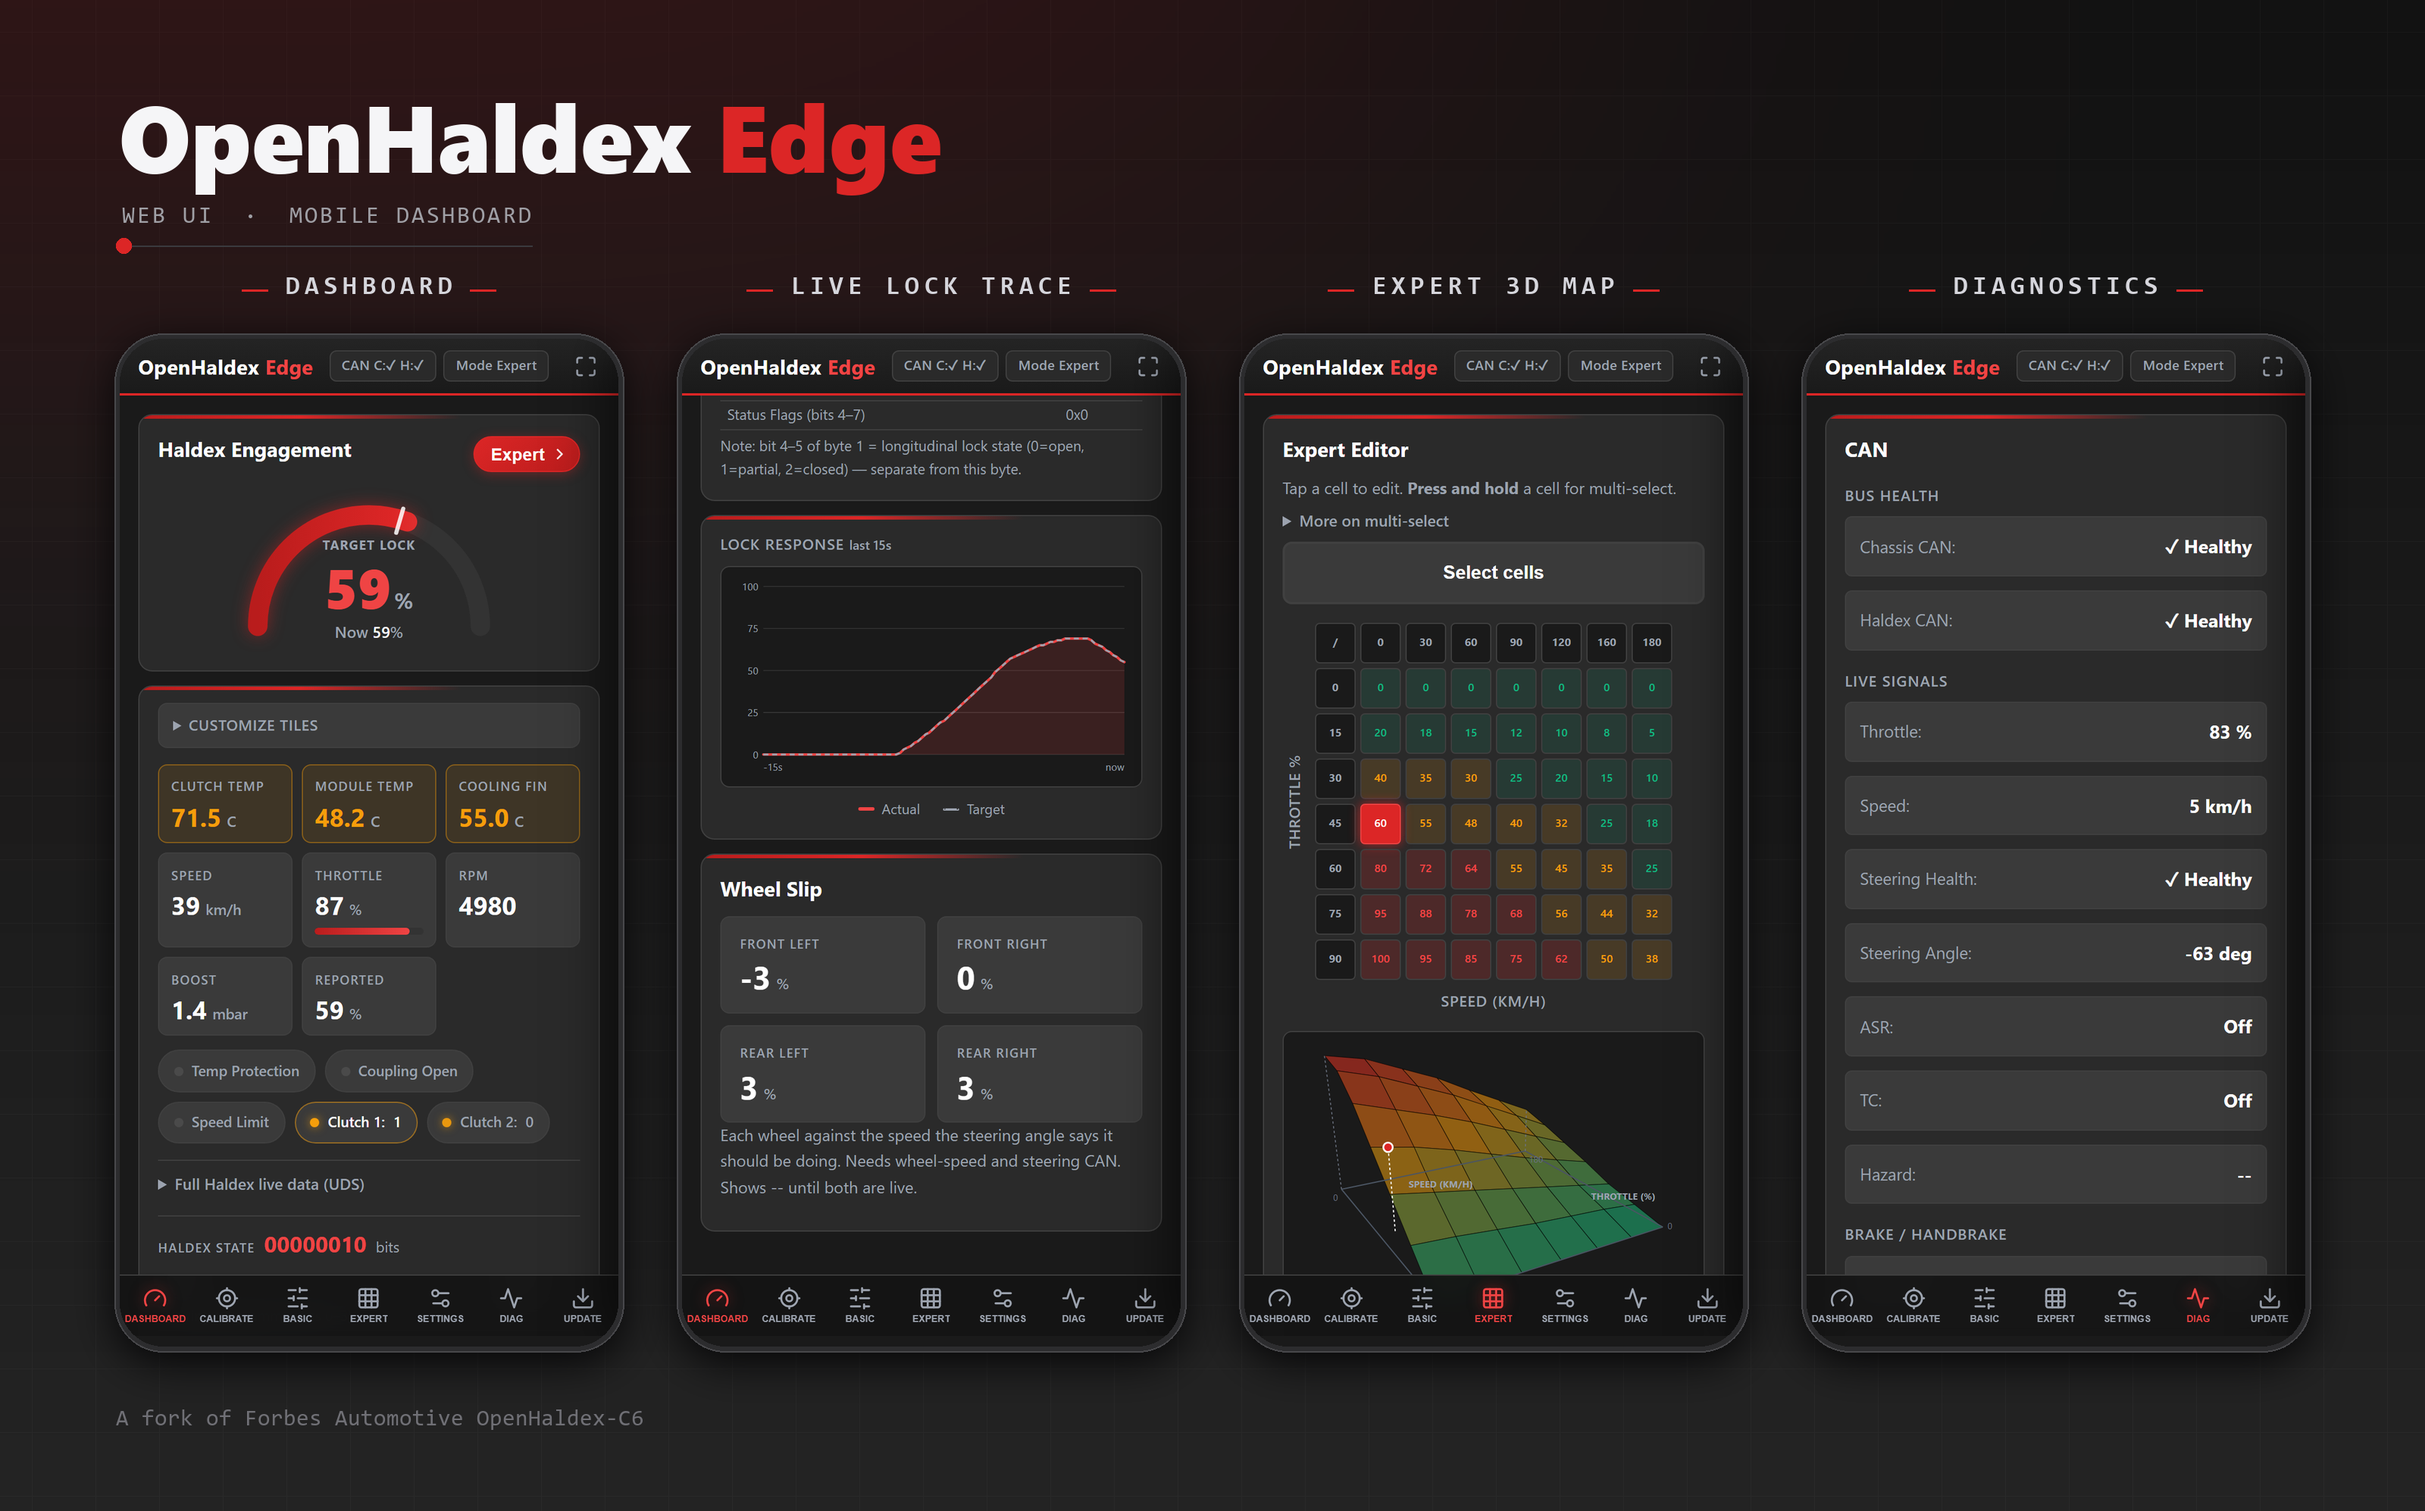
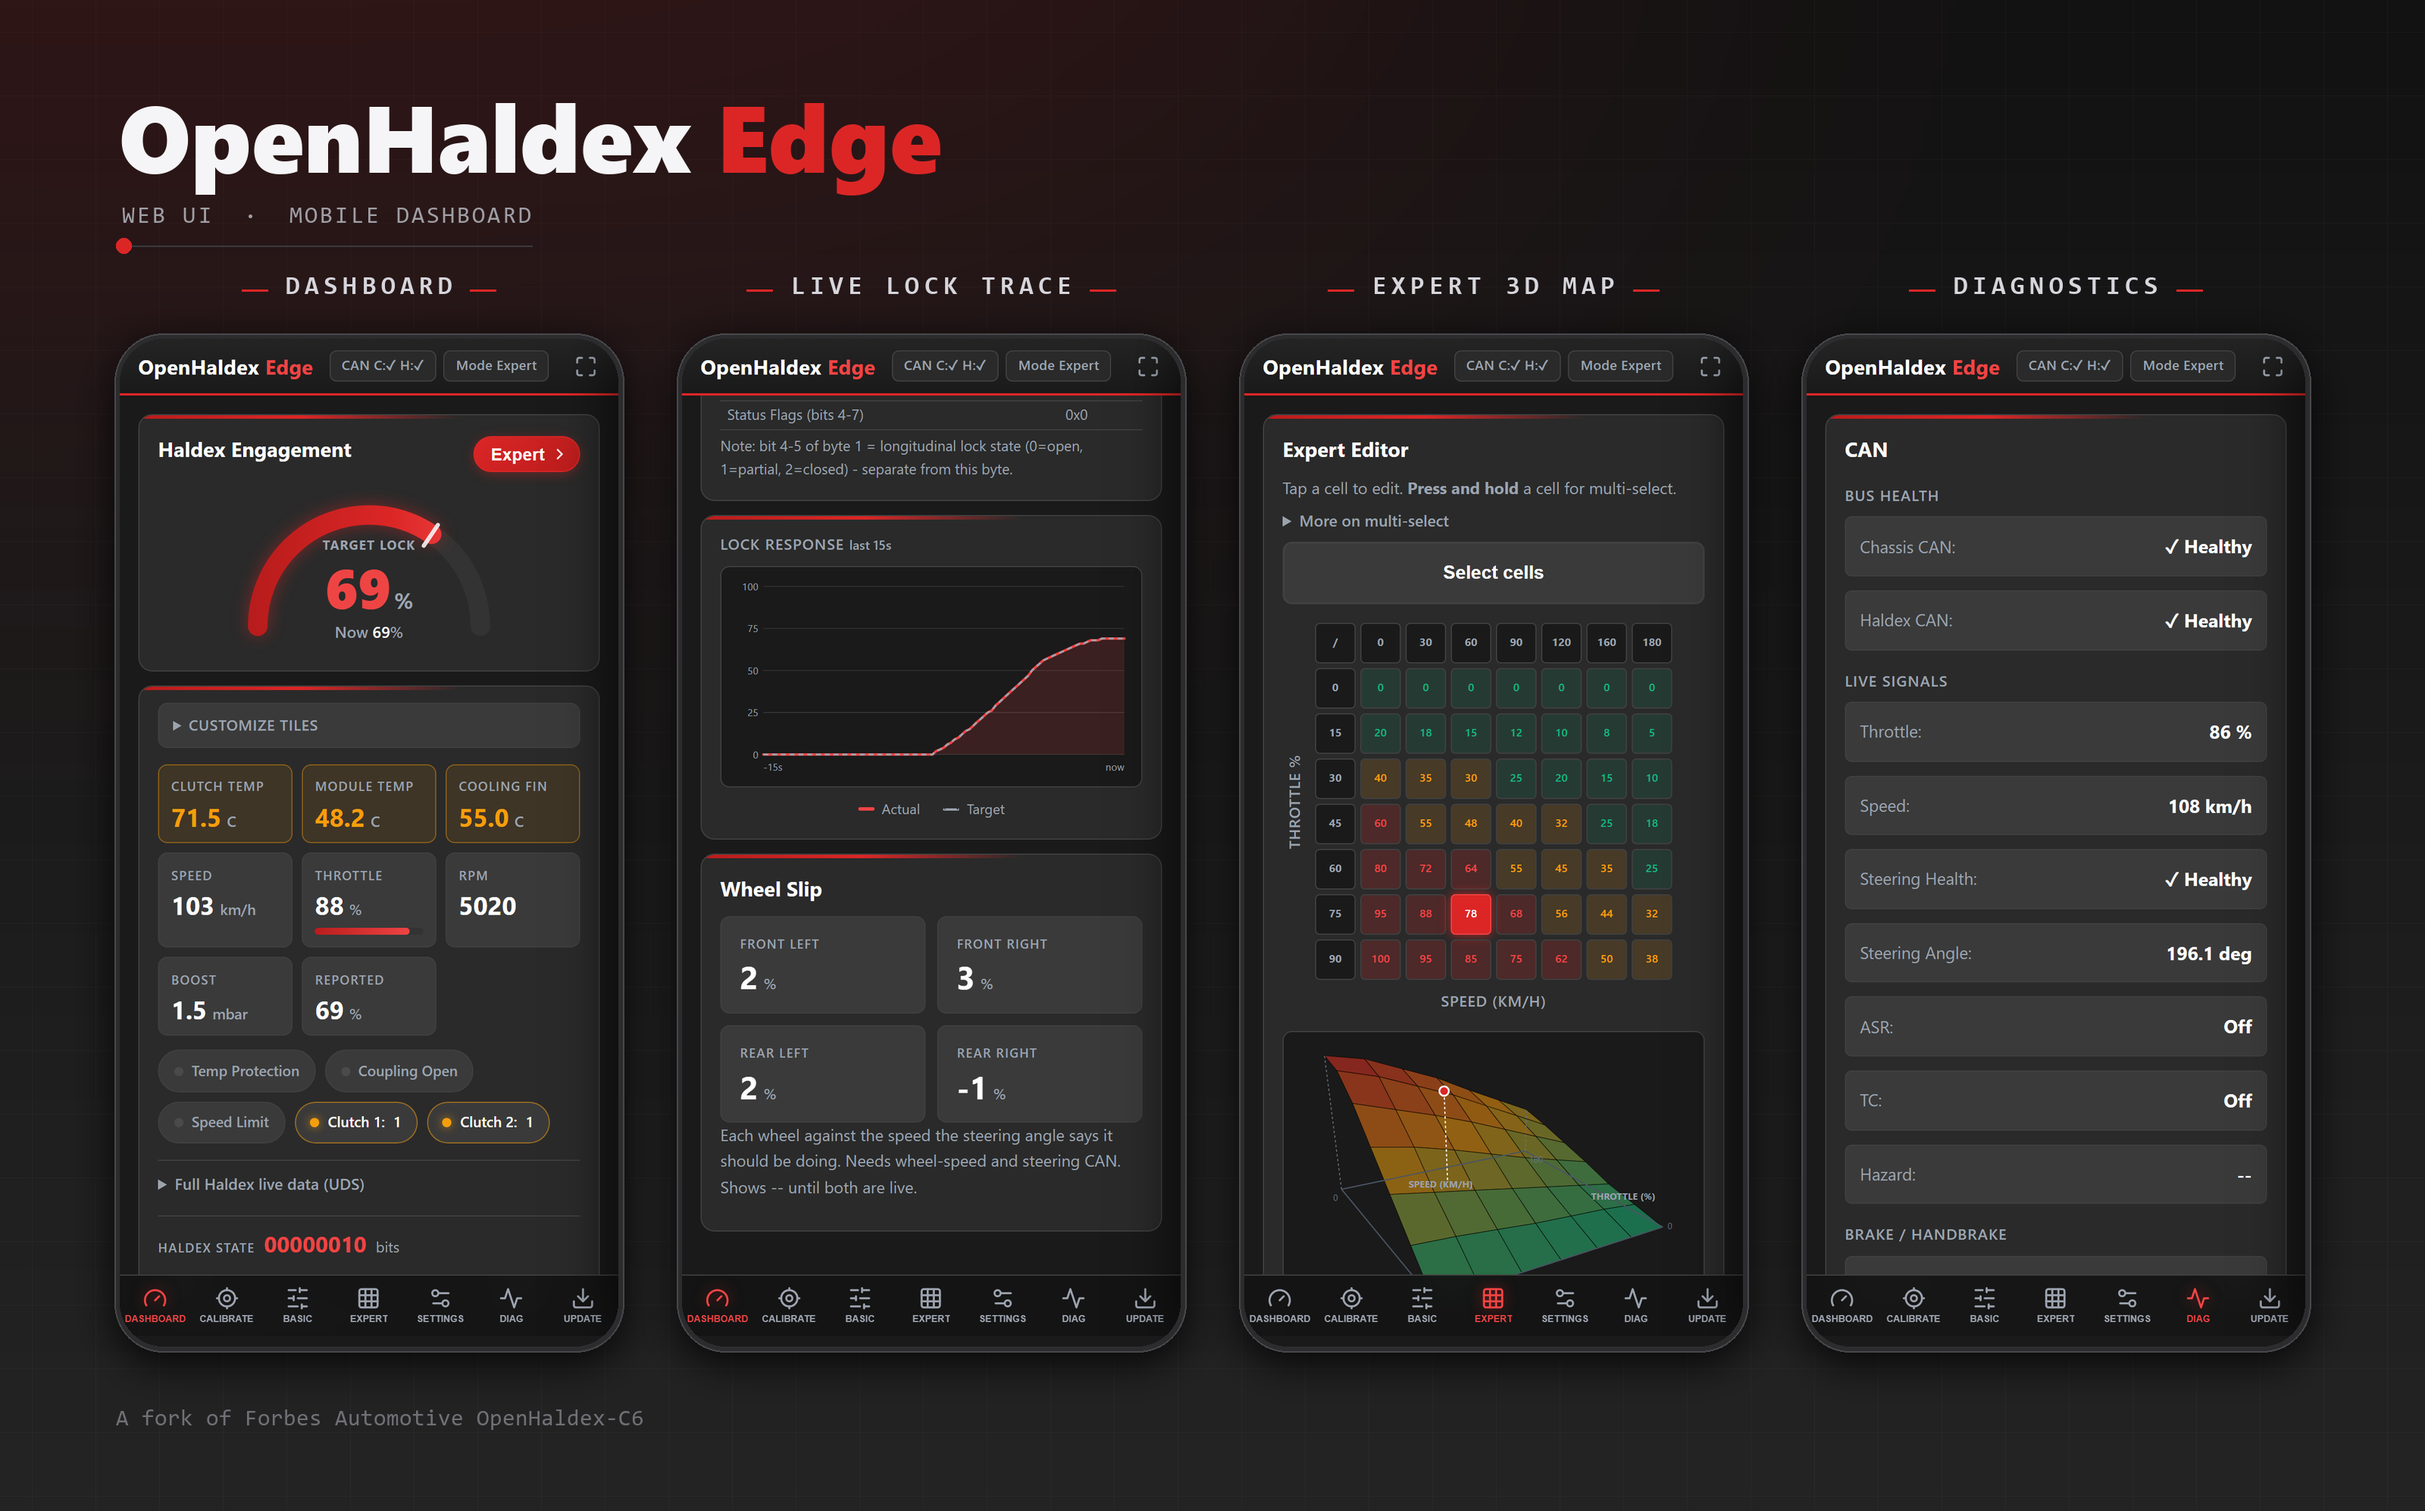
Docs: settings-keeping USB flash, CF formula note, fresh graphics
- README: a merged-image USB flash blanks the settings area, so show
  the esptool command that flashes the four parts separately and
  clears otadata. v8 and v9 both keep NVS at 0x9000, so an Edge v8
  unit keeps its settings that way.
- README and CHANGELOG: the default correction factor stays Edge's
  (lock + 20) / 2, matching the fit in the source comment.
- Regenerate the hero, N-up and expert graphics from the final UI (Car
  geometry card, ASCII status text).
- publish_ota_feed.py: a beta tag (v9.01.0-beta1) reads its release
  notes from the v9.01.0 changelog heading.

diff --git a/scripts/publish_ota_feed.py b/scripts/publish_ota_feed.py
@@ -131,7 +131,7 @@ def main() -> None:
         "channel": channel,
         "date": datetime.date.today().isoformat(),
         "ota": True,
-        "notes": release_notes(args.changelog, version),
+        "notes": release_notes(args.changelog, version.split("-")[0]),
         "firmware": {"path": f"V{version}/firmware.bin", "size": firmware.stat().st_size, "sha256": sha256(firmware)},
         "filesystem": {"path": f"V{version}/littlefs.bin", "size": littlefs.stat().st_size, "sha256": sha256(littlefs)},
     }

diff --git a/README.md b/README.md
@@ -96,12 +96,12 @@ Everything below runs on the Forbes hardware.
 
 Things worth knowing when you move from Edge v8:
 
-- **Settings keys are unchanged.** The module still stores everything in the one `openhaldex` settings area, so a flash that leaves that area alone keeps your settings. The merged image is one file covering flash from 0x0 to the end of the web UI partition, and the settings area inside that range is filled with blank flash, so treat a merged-image USB flash as a factory reset and plan to set the unit up again. Edge v8 has no Backup & Restore, so write down your Expert table first or screenshot it. v9 units can export a backup (see [Backup & Restore](#backup--restore)).
+- **Settings keys are unchanged.** The module still stores everything in the one `openhaldex` settings area, so a flash that leaves that area alone keeps your settings. The merged image is one file covering flash from 0x0 to the end of the web UI partition, and the settings area inside that range is filled with blank flash, so a merged-image USB flash is a factory reset. To keep your settings, flash the separate parts instead, as shown under [First flash over USB](#first-flash-over-usb). Edge v8 has no Backup & Restore, so write down your Expert table or screenshot it either way. v9 units can export a backup (see [Backup & Restore](#backup--restore)).
 - **The speed window now gates every lock path.** Disengage under speed, disengage above speed and minimum throttle apply to force modes (TC, hazards, external button) and to Expert mode, not only to the fixed-ratio modes. On Edge v8 those two bypassed the window. If you relied on a force mode locking the car below your "disengage under" speed, lower that setting.
 - **From a home network the UI asks for a login.** Over the module's own WiFi nothing changes. See [Home WiFi](#home-wifi-bridge-mode).
 - **The learn sweep needs the car stationary** (5 km/h or less). It refuses to start, or aborts, in a moving car.
 - **The steering-angle lock taper is on by default on a fresh unit**, with the curve described under [Basic tab](#basic-tab-when-lock-is-allowed). A unit that carries Edge v8 settings keeps whatever its steering setting was.
-- **The default correction factor** used before you run a learn follows upstream's formula (lock/2 + 20), where Edge v8 used (lock + 20)/2. Run the learn and it stops mattering.
+- **The default correction factor** used before you run a learn stays Edge's (lock + 20)/2, which matches the fit written in the source. Upstream's code currently computes lock/2 + 20; a pull request to line the two up is open upstream. Run the learn and it stops mattering.
 
 ---
 
@@ -368,7 +368,7 @@ It clears itself. The moment either CAN bus shows traffic, Bench Mode switches i
 
 OpenHaldex can ask the Haldex for live measurements and show them in the web UI, as a scan tool would. This uses the module's diagnostic channel, so it is **off by default** (Settings > **Enable Live Diagnostics**). It picks the protocol from the generation you set.
 
-- **Gen5 (0CQ, 0AY, VAQ): UDS.** Terminal voltage, control module temperature, clutch temperature, cooling fin temperature, clutch current, PWM and voltage. Clutch and fin temperatures show `--` when the decoded value is not plausible rather than showing a wrong number.
+- **Gen5 (0CQ, 0AY, VAQ): UDS.** Terminal voltage, control module temperature, clutch temperature, cooling fin temperature, clutch current, PWM and voltage. Clutch and fin temperatures show `--` when the decoded value is not plausible.
 - **Gen2 and Gen4: KWP2000 over VW TP2.0.** Oil temperature, clutch plate temperature, supply voltage, oil pressure, estimated torque, clutch valve duty and current. Gen4 values are decoded; the raw measuring-block bytes are also exposed.
 
 If VCDS, ODIS or another scan tool is connected, the module detects its requests on the bus and pauses its own polling until the tool goes quiet, so the two do not collide. If a tool still will not connect, switch Live Diagnostics off. Extra CAN traffic can cause spurious dash errors.
@@ -534,7 +534,20 @@ esptool.py --chip esp32c6 write_flash 0x0 openhaldex-c6-<tag>-merged.bin
 
 Or drag it into a browser flasher such as [ESP Web Tools](https://web.esptool.js.org/). `SHA256SUMS.txt` is attached so you can check the download. The release also carries the separate app, littlefs, bootloader and partition binaries.
 
-Because the merged image blanks the settings area, a USB flash resets the module's settings (see [upgrading](#before-you-flash-upgrading-from-edge-v8-or-upstream)). If you are already on v9, export a backup first.
+The merged image blanks the settings area, so flashing it resets the module's settings.
+
+**Keeping your settings (Edge v8 to v9).** The settings area sits at the same place (`0x9000`) on v8 and v9, and v9 reads v8's settings unchanged. To keep them, flash the separate parts instead of the merged image, and clear the boot selector so the module starts the new firmware:
+
+```sh
+esptool.py --chip esp32c6 erase_region 0xd000 0x2000
+esptool.py --chip esp32c6 write_flash \
+  0x0      bootloader.bin \
+  0x8000   partitions.bin \
+  0x10000  openhaldex-c6-<tag>-app.bin \
+  0x390000 openhaldex-c6-<tag>-littlefs.bin
+```
+
+The offsets come from the v9 partition table; the release's `manifest.json` on the `ota` branch lists the same ones. Write down your Expert table anyway, in case something goes wrong. Once you are on v9, export a backup before any USB flash.
 
 ### Updating over WiFi
 

diff --git a/CHANGELOG.md b/CHANGELOG.md
@@ -96,7 +96,8 @@ Differences from Edge v8 that you will notice:
   A partition table cannot change over the air, so a unit on Edge v8, or on an
   upstream build from before the Bluetooth release, takes v9 once over USB. A
   merged-image flash also blanks the settings area (expected from esptool's
-  padding, not yet checked on a unit), so note your settings first.
+  padding, not yet checked on a unit). The README shows how to flash the separate
+  parts instead, which leaves the settings area at 0x9000 alone.
 - **Settings keep their names.** The single `openhaldex` NVS namespace and its key
   names are unchanged, so Edge v8 settings are read as they were. The v8 steering
   taper (start, full, floor) is converted into upstream's five-point breakpoint
@@ -118,9 +119,10 @@ Differences from Edge v8 that you will notice:
   Update card moved from Settings to the Update tab as "Update from a File".
 - **Live Diagnostics replaces the UDS toggle** and covers UDS and TP2.0. It is off
   by default.
-- **Default correction factor without a learn table** follows upstream's formula
-  (lock/2 + 20), where Edge v8 used (lock + 20)/2. The E2E checksum DataID position
-  follows upstream's, verified against a capture.
+- **Default correction factor without a learn table** stays Edge's (lock + 20)/2,
+  which matches the fit in the source comment (upstream computes lock/2 + 20; an
+  upstream pull request lines them up). The E2E checksum DataID position follows
+  upstream's, verified against a capture.
 - **Learn no longer forces BPK packing.** The table is measured under the unit's own
   Fix Hunting setting. The v9 UI has no Fix Hunting switch; Long Learn tries it on
   Gen5 when the baseline is not smooth.
